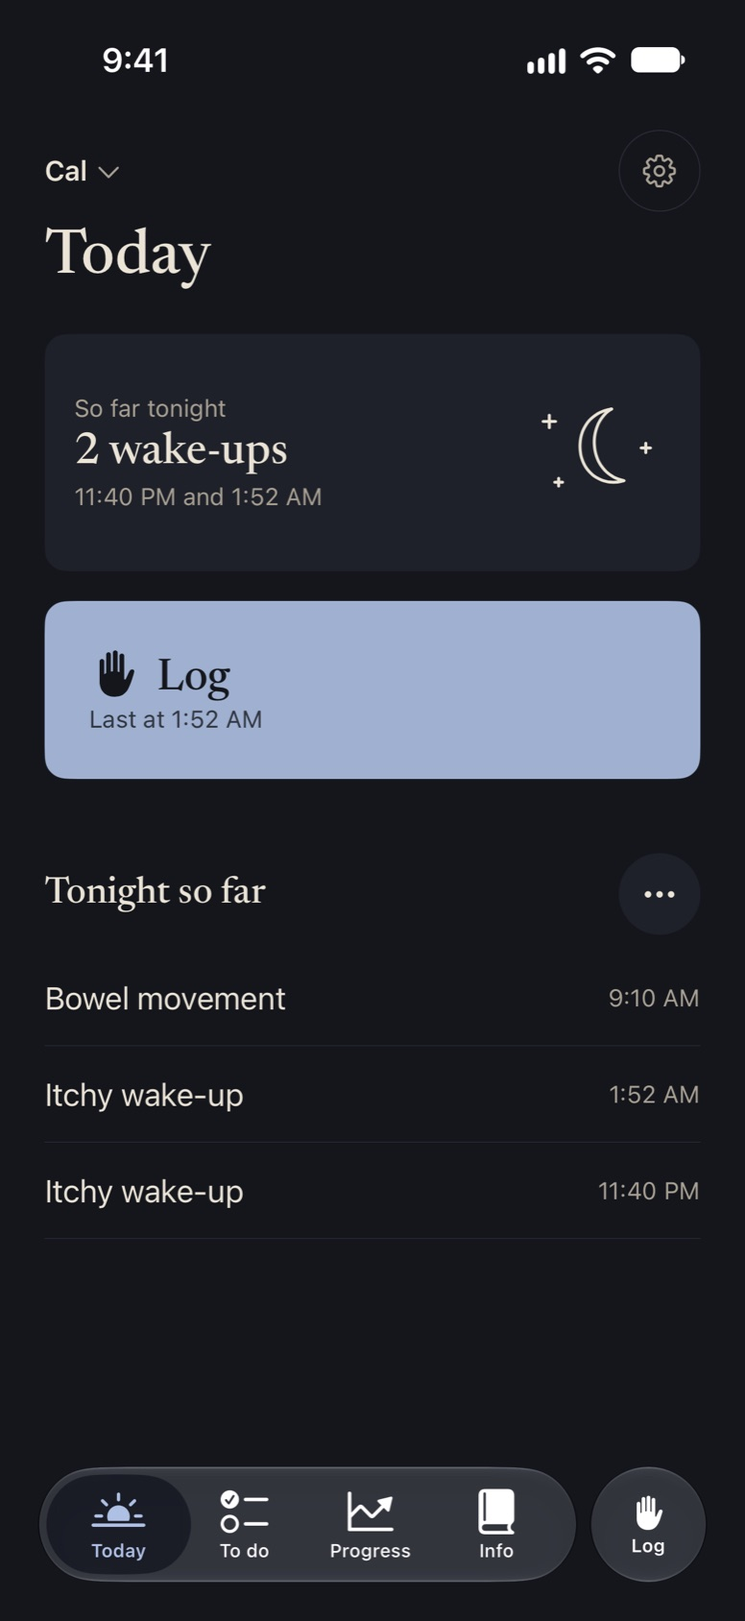
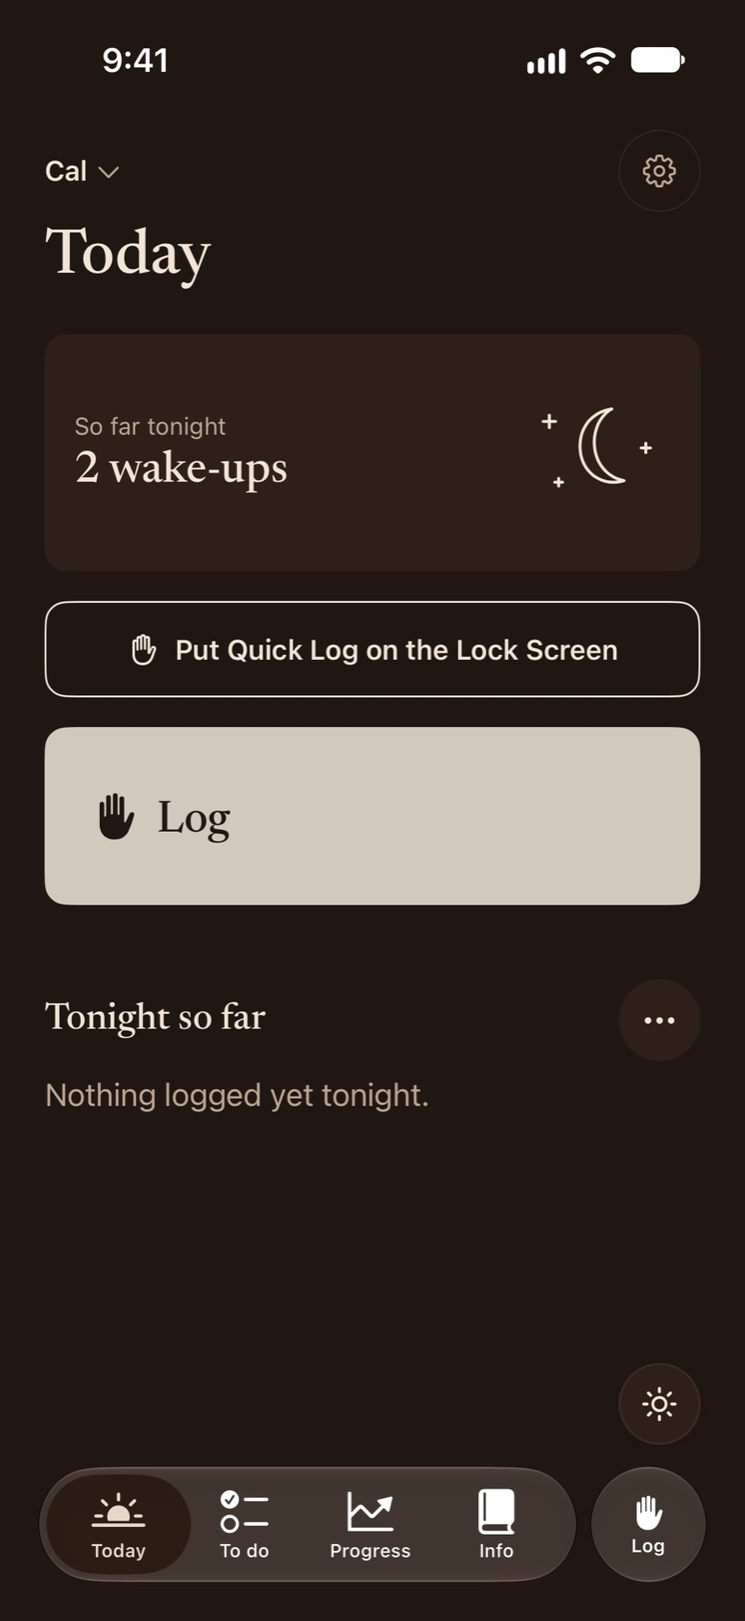
Site: greige, linen, and olive to match the app
Swaps the site's blues for the app's new palette (tokens.css, style.css,
the drawn phones' wallpaper and icons, the Night strip and card pictures),
new greige app screenshots, and keeps the page template in scripts/site.

diff --git a/web/index.html b/web/index.html
@@ -11,8 +11,8 @@
 <link rel="stylesheet" href="tokens.css">
 <!-- "A day with Cali Care": built by gen_day.py in the site's look (tokens.css), with real app screenshots in shots/. -->
 <style>
-body{margin:0;background:#F6F1E8}
-a{color:#34466A}a:hover{color:#1E1B18}
+body{margin:0;background:#F6EEE2}
+a{color:#665B52}a:hover{color:#261C14}
 .layout{margin:0 auto}
 details.faq summary{list-style:none;cursor:pointer}details.faq summary::-webkit-details-marker{display:none}details.faq[open] .faq-chev{transform:rotate(90deg)}
 
@@ -53,30 +53,30 @@ details.faq summary{list-style:none;cursor:pointer}details.faq summary::-webkit-
 <section id="during" style="box-sizing:border-box;padding:120px 120px;background:var(--surface);display:grid;grid-template-columns:repeat(2, minmax(0, 1fr));gap:80px;align-items:center"><div style="display:flex;flex-direction:column;gap:var(--s4)"><span class="t-label" style="color:var(--accent)">During the day</span><h2 style="margin:0;font-family:var(--serif);font-weight:500;font-size:44px;line-height:52px">Your provider’s plan, one step at a time.</h2><!-- VERIFY: plan-import --><p class="muted" style="margin:0;font-size:19px;line-height:30px;max-width:520px">Take a photo of your care plan, and Cali Care turns it into a short list for the morning, afternoon, and bedtime. It counts skin-care rounds for you, so you never have to wonder whether it was two or three.</p><!-- /VERIFY --><p class="t-caption muted" style="margin:0;font-size:15px;line-height:22px">Your provider’s exact words are always a tap away. Importing a plan requires signing in.</p><p class="muted" style="margin:0;font-size:19px;line-height:30px;max-width:520px">You can also log flares, foods, products, baths, and notes whenever you want. None of it is required.</p></div><div style="display:flex;justify-content:center"><div style="width:414px;height:868px;box-sizing:border-box;padding:12px;border-radius:58px;background:var(--mock-frame)">
 <div style="width:100%;height:100%;border-radius:46px;overflow:hidden"><img src="shots/todo-day.jpg" alt="Cali Care’s To do screen: the care plan as a list for the morning, with the next step highlighted" style="width:100%;height:100%;display:block;object-fit:cover;object-position:top"></div>
 </div></div></section>
-<section id="weeks" style="box-sizing:border-box;padding:120px 120px;display:grid;grid-template-columns:repeat(2, minmax(0, 1fr));gap:80px;align-items:center"><div style="display:flex;flex-direction:column;gap:var(--s4)"><span class="t-label" style="color:var(--accent)">Over the weeks</span><h2 style="margin:0;font-family:var(--serif);font-weight:500;font-size:44px;line-height:52px">See the whole month, not just the worst night.</h2><!-- VERIFY: night-strip --><p class="muted" style="margin:0;font-size:19px;line-height:30px;max-width:520px">The Night strip widget shows your last 7 nights right on your Home Screen. In the app, you can see how this week compares with last and how things have gone since your last visit.</p><!-- /VERIFY --><!-- FALLBACK (night-strip): In the app, you can see how this week compares with last and how things have gone since your last visit. --></div><div style="display:flex;justify-content:center"><!-- VERIFY: night-strip --><div role="img" aria-label="The Night strip widget: the last 7 nights as rows of dots, one dot per wake-up" style="box-sizing:border-box;width:338px;height:158px;padding:14px 16px;border-radius:22px;background:#14161C;font-family:var(--sans);display:flex;flex-direction:column;justify-content:space-between">
+<section id="weeks" style="box-sizing:border-box;padding:120px 120px;display:grid;grid-template-columns:repeat(2, minmax(0, 1fr));gap:80px;align-items:center"><div style="display:flex;flex-direction:column;gap:var(--s4)"><span class="t-label" style="color:var(--accent)">Over the weeks</span><h2 style="margin:0;font-family:var(--serif);font-weight:500;font-size:44px;line-height:52px">See the whole month, not just the worst night.</h2><!-- VERIFY: night-strip --><p class="muted" style="margin:0;font-size:19px;line-height:30px;max-width:520px">The Night strip widget shows your last 7 nights right on your Home Screen. In the app, you can see how this week compares with last and how things have gone since your last visit.</p><!-- /VERIFY --><!-- FALLBACK (night-strip): In the app, you can see how this week compares with last and how things have gone since your last visit. --></div><div style="display:flex;justify-content:center"><!-- VERIFY: night-strip --><div role="img" aria-label="The Night strip widget: the last 7 nights as rows of dots, one dot per wake-up" style="box-sizing:border-box;width:338px;height:158px;padding:14px 16px;border-radius:22px;background:#201712;font-family:var(--sans);display:flex;flex-direction:column;justify-content:space-between">
 <div style="display:flex;align-items:center;gap:10px;height:16px">
-<span style="width:30px;font-size:11px;color:#A8A093">Wed</span>
-<span style="position:relative;flex-grow:1;height:12px"><span style="position:absolute;left:0;right:0;top:50%;height:1px;background:#2C303A"></span><span style="position:absolute;left:calc(42% - 5px);top:50%;transform:translateY(-50%);width:10px;height:10px;border-radius:999px;background:#9FB0D0"></span></span>
+<span style="width:30px;font-size:11px;color:#BBA792">Wed</span>
+<span style="position:relative;flex-grow:1;height:12px"><span style="position:absolute;left:0;right:0;top:50%;height:1px;background:#3B2C22"></span><span style="position:absolute;left:calc(42% - 5px);top:50%;transform:translateY(-50%);width:10px;height:10px;border-radius:999px;background:#D3C8BC"></span></span>
 </div><div style="display:flex;align-items:center;gap:10px;height:16px">
-<span style="width:30px;font-size:11px;color:#A8A093">Thu</span>
-<span style="position:relative;flex-grow:1;height:12px"><span style="position:absolute;left:0;right:0;top:50%;height:1px;background:#2C303A"></span><span style="position:absolute;left:calc(30% - 5px);top:50%;transform:translateY(-50%);width:10px;height:10px;border-radius:999px;background:#9FB0D0"></span><span style="position:absolute;left:calc(55% - 5px);top:50%;transform:translateY(-50%);width:10px;height:10px;border-radius:999px;background:#9FB0D0"></span><span style="position:absolute;left:calc(78% - 5px);top:50%;transform:translateY(-50%);width:10px;height:10px;border-radius:999px;background:#9FB0D0"></span></span>
+<span style="width:30px;font-size:11px;color:#BBA792">Thu</span>
+<span style="position:relative;flex-grow:1;height:12px"><span style="position:absolute;left:0;right:0;top:50%;height:1px;background:#3B2C22"></span><span style="position:absolute;left:calc(30% - 5px);top:50%;transform:translateY(-50%);width:10px;height:10px;border-radius:999px;background:#D3C8BC"></span><span style="position:absolute;left:calc(55% - 5px);top:50%;transform:translateY(-50%);width:10px;height:10px;border-radius:999px;background:#D3C8BC"></span><span style="position:absolute;left:calc(78% - 5px);top:50%;transform:translateY(-50%);width:10px;height:10px;border-radius:999px;background:#D3C8BC"></span></span>
 </div><div style="display:flex;align-items:center;gap:10px;height:16px">
-<span style="width:30px;font-size:11px;color:#A8A093">Fri</span>
-<span style="position:relative;flex-grow:1;height:12px"><span style="position:absolute;left:0;right:0;top:50%;height:1px;background:#2C303A"></span></span>
+<span style="width:30px;font-size:11px;color:#BBA792">Fri</span>
+<span style="position:relative;flex-grow:1;height:12px"><span style="position:absolute;left:0;right:0;top:50%;height:1px;background:#3B2C22"></span></span>
 </div><div style="display:flex;align-items:center;gap:10px;height:16px">
-<span style="width:30px;font-size:11px;color:#A8A093">Sat</span>
-<span style="position:relative;flex-grow:1;height:12px"><span style="position:absolute;left:0;right:0;top:50%;height:1px;background:#2C303A"></span><span style="position:absolute;left:calc(48% - 5px);top:50%;transform:translateY(-50%);width:10px;height:10px;border-radius:999px;background:#9FB0D0"></span><span style="position:absolute;left:calc(70% - 5px);top:50%;transform:translateY(-50%);width:10px;height:10px;border-radius:999px;background:#9FB0D0"></span></span>
+<span style="width:30px;font-size:11px;color:#BBA792">Sat</span>
+<span style="position:relative;flex-grow:1;height:12px"><span style="position:absolute;left:0;right:0;top:50%;height:1px;background:#3B2C22"></span><span style="position:absolute;left:calc(48% - 5px);top:50%;transform:translateY(-50%);width:10px;height:10px;border-radius:999px;background:#D3C8BC"></span><span style="position:absolute;left:calc(70% - 5px);top:50%;transform:translateY(-50%);width:10px;height:10px;border-radius:999px;background:#D3C8BC"></span></span>
 </div><div style="display:flex;align-items:center;gap:10px;height:16px">
-<span style="width:30px;font-size:11px;color:#A8A093">Sun</span>
-<span style="position:relative;flex-grow:1;height:12px"><span style="position:absolute;left:0;right:0;top:50%;height:1px;background:#2C303A"></span><span style="position:absolute;left:calc(62% - 5px);top:50%;transform:translateY(-50%);width:10px;height:10px;border-radius:999px;background:#9FB0D0"></span></span>
+<span style="width:30px;font-size:11px;color:#BBA792">Sun</span>
+<span style="position:relative;flex-grow:1;height:12px"><span style="position:absolute;left:0;right:0;top:50%;height:1px;background:#3B2C22"></span><span style="position:absolute;left:calc(62% - 5px);top:50%;transform:translateY(-50%);width:10px;height:10px;border-radius:999px;background:#D3C8BC"></span></span>
 </div><div style="display:flex;align-items:center;gap:10px;height:16px">
-<span style="width:30px;font-size:11px;color:#A8A093">Mon</span>
-<span style="position:relative;flex-grow:1;height:12px"><span style="position:absolute;left:0;right:0;top:50%;height:1px;background:#2C303A"></span><span style="position:absolute;left:calc(36% - 5px);top:50%;transform:translateY(-50%);width:10px;height:10px;border-radius:999px;background:#9FB0D0"></span><span style="position:absolute;left:calc(58% - 5px);top:50%;transform:translateY(-50%);width:10px;height:10px;border-radius:999px;background:#9FB0D0"></span></span>
+<span style="width:30px;font-size:11px;color:#BBA792">Mon</span>
+<span style="position:relative;flex-grow:1;height:12px"><span style="position:absolute;left:0;right:0;top:50%;height:1px;background:#3B2C22"></span><span style="position:absolute;left:calc(36% - 5px);top:50%;transform:translateY(-50%);width:10px;height:10px;border-radius:999px;background:#D3C8BC"></span><span style="position:absolute;left:calc(58% - 5px);top:50%;transform:translateY(-50%);width:10px;height:10px;border-radius:999px;background:#D3C8BC"></span></span>
 </div><div style="display:flex;align-items:center;gap:10px;height:16px">
-<span style="width:30px;font-size:11px;color:#A8A093">Tue</span>
-<span style="position:relative;flex-grow:1;height:12px"><span style="position:absolute;left:0;right:0;top:50%;height:1px;background:#2C303A"></span><span style="position:absolute;left:calc(45% - 5px);top:50%;transform:translateY(-50%);width:10px;height:10px;border-radius:999px;background:#9FB0D0"></span><span style="position:absolute;left:calc(66% - 5px);top:50%;transform:translateY(-50%);width:10px;height:10px;border-radius:999px;background:#9FB0D0"></span></span>
+<span style="width:30px;font-size:11px;color:#BBA792">Tue</span>
+<span style="position:relative;flex-grow:1;height:12px"><span style="position:absolute;left:0;right:0;top:50%;height:1px;background:#3B2C22"></span><span style="position:absolute;left:calc(45% - 5px);top:50%;transform:translateY(-50%);width:10px;height:10px;border-radius:999px;background:#D3C8BC"></span><span style="position:absolute;left:calc(66% - 5px);top:50%;transform:translateY(-50%);width:10px;height:10px;border-radius:999px;background:#D3C8BC"></span></span>
 </div>
-<div style="display:flex;justify-content:space-between;padding-left:40px;font-size:10px;color:#A8A093"><span>7 PM</span><span>7 AM</span></div>
+<div style="display:flex;justify-content:space-between;padding-left:40px;font-size:10px;color:#BBA792"><span>7 PM</span><span>7 AM</span></div>
 </div><!-- /VERIFY --><!-- FALLBACK (night-strip): remove this picture. --></div></section>
 <section id="appointment" style="box-sizing:border-box;padding:120px 120px;background:var(--surface);display:grid;grid-template-columns:repeat(2, minmax(0, 1fr));gap:80px;align-items:center"><div style="display:flex;flex-direction:column;gap:var(--s4)"><span class="t-label" style="color:var(--accent)">At the appointment</span><h2 style="margin:0;font-family:var(--serif);font-weight:500;font-size:44px;line-height:52px">When the doctor asks how it’s been, you’ll know.</h2><!-- VERIFY: doctor-pdf --><p class="muted" style="margin:0;font-size:19px;line-height:30px;max-width:520px">Share a short PDF report with charts, a day-by-day view, and your notes. Your doctor doesn’t need the app.</p><!-- /VERIFY --></div><div style="display:flex;justify-content:center"><div style="width:414px;height:868px;box-sizing:border-box;padding:12px;border-radius:58px;background:var(--mock-frame)">
 <div style="width:100%;height:100%;border-radius:46px;overflow:hidden"><img src="shots/progress-week.jpg" alt="Cali Care’s Progress screen: this week’s nights and skin, with Share with provider" style="width:100%;height:100%;display:block;object-fit:cover;object-position:top"></div>
@@ -120,30 +120,30 @@ details.faq summary{list-style:none;cursor:pointer}details.faq summary::-webkit-
 <section id="during-m" style="box-sizing:border-box;padding:56px var(--gutter);background:var(--surface);display:flex;flex-direction:column;gap:var(--s5)"><div style="display:flex;flex-direction:column;gap:var(--s4)"><span class="t-label" style="color:var(--accent)">During the day</span><h2 style="margin:0;font-family:var(--serif);font-weight:500;font-size:32px;line-height:38px">Your provider’s plan, one step at a time.</h2><!-- VERIFY: plan-import --><p class="muted" style="margin:0;font-size:17px;line-height:26px;max-width:520px">Take a photo of your care plan, and Cali Care turns it into a short list for the morning, afternoon, and bedtime. It counts skin-care rounds for you, so you never have to wonder whether it was two or three.</p><!-- /VERIFY --><p class="t-caption muted" style="margin:0;font-size:15px;line-height:22px">Your provider’s exact words are always a tap away. Importing a plan requires signing in.</p><p class="muted" style="margin:0;font-size:17px;line-height:26px;max-width:520px">You can also log flares, foods, products, baths, and notes whenever you want. None of it is required.</p></div><div style="display:flex;justify-content:center"><div style="width:331px;height:694px;box-sizing:border-box;padding:9px;border-radius:46px;background:var(--mock-frame)">
 <div style="width:100%;height:100%;border-radius:36px;overflow:hidden"><img src="shots/todo-day.jpg" alt="Cali Care’s To do screen: the care plan as a list for the morning, with the next step highlighted" style="width:100%;height:100%;display:block;object-fit:cover;object-position:top"></div>
 </div></div></section>
-<section id="weeks-m" style="box-sizing:border-box;padding:56px var(--gutter);display:flex;flex-direction:column;gap:var(--s5)"><div style="display:flex;flex-direction:column;gap:var(--s4)"><span class="t-label" style="color:var(--accent)">Over the weeks</span><h2 style="margin:0;font-family:var(--serif);font-weight:500;font-size:32px;line-height:38px">See the whole month, not just the worst night.</h2><!-- VERIFY: night-strip --><p class="muted" style="margin:0;font-size:17px;line-height:26px;max-width:520px">The Night strip widget shows your last 7 nights right on your Home Screen. In the app, you can see how this week compares with last and how things have gone since your last visit.</p><!-- /VERIFY --><!-- FALLBACK (night-strip): In the app, you can see how this week compares with last and how things have gone since your last visit. --></div><div style="display:flex;justify-content:center"><!-- VERIFY: night-strip --><div role="img" aria-label="The Night strip widget: the last 7 nights as rows of dots, one dot per wake-up" style="box-sizing:border-box;width:338px;height:158px;padding:14px 16px;border-radius:22px;background:#14161C;font-family:var(--sans);display:flex;flex-direction:column;justify-content:space-between">
+<section id="weeks-m" style="box-sizing:border-box;padding:56px var(--gutter);display:flex;flex-direction:column;gap:var(--s5)"><div style="display:flex;flex-direction:column;gap:var(--s4)"><span class="t-label" style="color:var(--accent)">Over the weeks</span><h2 style="margin:0;font-family:var(--serif);font-weight:500;font-size:32px;line-height:38px">See the whole month, not just the worst night.</h2><!-- VERIFY: night-strip --><p class="muted" style="margin:0;font-size:17px;line-height:26px;max-width:520px">The Night strip widget shows your last 7 nights right on your Home Screen. In the app, you can see how this week compares with last and how things have gone since your last visit.</p><!-- /VERIFY --><!-- FALLBACK (night-strip): In the app, you can see how this week compares with last and how things have gone since your last visit. --></div><div style="display:flex;justify-content:center"><!-- VERIFY: night-strip --><div role="img" aria-label="The Night strip widget: the last 7 nights as rows of dots, one dot per wake-up" style="box-sizing:border-box;width:338px;height:158px;padding:14px 16px;border-radius:22px;background:#201712;font-family:var(--sans);display:flex;flex-direction:column;justify-content:space-between">
 <div style="display:flex;align-items:center;gap:10px;height:16px">
-<span style="width:30px;font-size:11px;color:#A8A093">Wed</span>
-<span style="position:relative;flex-grow:1;height:12px"><span style="position:absolute;left:0;right:0;top:50%;height:1px;background:#2C303A"></span><span style="position:absolute;left:calc(42% - 5px);top:50%;transform:translateY(-50%);width:10px;height:10px;border-radius:999px;background:#9FB0D0"></span></span>
+<span style="width:30px;font-size:11px;color:#BBA792">Wed</span>
+<span style="position:relative;flex-grow:1;height:12px"><span style="position:absolute;left:0;right:0;top:50%;height:1px;background:#3B2C22"></span><span style="position:absolute;left:calc(42% - 5px);top:50%;transform:translateY(-50%);width:10px;height:10px;border-radius:999px;background:#D3C8BC"></span></span>
 </div><div style="display:flex;align-items:center;gap:10px;height:16px">
-<span style="width:30px;font-size:11px;color:#A8A093">Thu</span>
-<span style="position:relative;flex-grow:1;height:12px"><span style="position:absolute;left:0;right:0;top:50%;height:1px;background:#2C303A"></span><span style="position:absolute;left:calc(30% - 5px);top:50%;transform:translateY(-50%);width:10px;height:10px;border-radius:999px;background:#9FB0D0"></span><span style="position:absolute;left:calc(55% - 5px);top:50%;transform:translateY(-50%);width:10px;height:10px;border-radius:999px;background:#9FB0D0"></span><span style="position:absolute;left:calc(78% - 5px);top:50%;transform:translateY(-50%);width:10px;height:10px;border-radius:999px;background:#9FB0D0"></span></span>
+<span style="width:30px;font-size:11px;color:#BBA792">Thu</span>
+<span style="position:relative;flex-grow:1;height:12px"><span style="position:absolute;left:0;right:0;top:50%;height:1px;background:#3B2C22"></span><span style="position:absolute;left:calc(30% - 5px);top:50%;transform:translateY(-50%);width:10px;height:10px;border-radius:999px;background:#D3C8BC"></span><span style="position:absolute;left:calc(55% - 5px);top:50%;transform:translateY(-50%);width:10px;height:10px;border-radius:999px;background:#D3C8BC"></span><span style="position:absolute;left:calc(78% - 5px);top:50%;transform:translateY(-50%);width:10px;height:10px;border-radius:999px;background:#D3C8BC"></span></span>
 </div><div style="display:flex;align-items:center;gap:10px;height:16px">
-<span style="width:30px;font-size:11px;color:#A8A093">Fri</span>
-<span style="position:relative;flex-grow:1;height:12px"><span style="position:absolute;left:0;right:0;top:50%;height:1px;background:#2C303A"></span></span>
+<span style="width:30px;font-size:11px;color:#BBA792">Fri</span>
+<span style="position:relative;flex-grow:1;height:12px"><span style="position:absolute;left:0;right:0;top:50%;height:1px;background:#3B2C22"></span></span>
 </div><div style="display:flex;align-items:center;gap:10px;height:16px">
-<span style="width:30px;font-size:11px;color:#A8A093">Sat</span>
-<span style="position:relative;flex-grow:1;height:12px"><span style="position:absolute;left:0;right:0;top:50%;height:1px;background:#2C303A"></span><span style="position:absolute;left:calc(48% - 5px);top:50%;transform:translateY(-50%);width:10px;height:10px;border-radius:999px;background:#9FB0D0"></span><span style="position:absolute;left:calc(70% - 5px);top:50%;transform:translateY(-50%);width:10px;height:10px;border-radius:999px;background:#9FB0D0"></span></span>
+<span style="width:30px;font-size:11px;color:#BBA792">Sat</span>
+<span style="position:relative;flex-grow:1;height:12px"><span style="position:absolute;left:0;right:0;top:50%;height:1px;background:#3B2C22"></span><span style="position:absolute;left:calc(48% - 5px);top:50%;transform:translateY(-50%);width:10px;height:10px;border-radius:999px;background:#D3C8BC"></span><span style="position:absolute;left:calc(70% - 5px);top:50%;transform:translateY(-50%);width:10px;height:10px;border-radius:999px;background:#D3C8BC"></span></span>
 </div><div style="display:flex;align-items:center;gap:10px;height:16px">
-<span style="width:30px;font-size:11px;color:#A8A093">Sun</span>
-<span style="position:relative;flex-grow:1;height:12px"><span style="position:absolute;left:0;right:0;top:50%;height:1px;background:#2C303A"></span><span style="position:absolute;left:calc(62% - 5px);top:50%;transform:translateY(-50%);width:10px;height:10px;border-radius:999px;background:#9FB0D0"></span></span>
+<span style="width:30px;font-size:11px;color:#BBA792">Sun</span>
+<span style="position:relative;flex-grow:1;height:12px"><span style="position:absolute;left:0;right:0;top:50%;height:1px;background:#3B2C22"></span><span style="position:absolute;left:calc(62% - 5px);top:50%;transform:translateY(-50%);width:10px;height:10px;border-radius:999px;background:#D3C8BC"></span></span>
 </div><div style="display:flex;align-items:center;gap:10px;height:16px">
-<span style="width:30px;font-size:11px;color:#A8A093">Mon</span>
-<span style="position:relative;flex-grow:1;height:12px"><span style="position:absolute;left:0;right:0;top:50%;height:1px;background:#2C303A"></span><span style="position:absolute;left:calc(36% - 5px);top:50%;transform:translateY(-50%);width:10px;height:10px;border-radius:999px;background:#9FB0D0"></span><span style="position:absolute;left:calc(58% - 5px);top:50%;transform:translateY(-50%);width:10px;height:10px;border-radius:999px;background:#9FB0D0"></span></span>
+<span style="width:30px;font-size:11px;color:#BBA792">Mon</span>
+<span style="position:relative;flex-grow:1;height:12px"><span style="position:absolute;left:0;right:0;top:50%;height:1px;background:#3B2C22"></span><span style="position:absolute;left:calc(36% - 5px);top:50%;transform:translateY(-50%);width:10px;height:10px;border-radius:999px;background:#D3C8BC"></span><span style="position:absolute;left:calc(58% - 5px);top:50%;transform:translateY(-50%);width:10px;height:10px;border-radius:999px;background:#D3C8BC"></span></span>
 </div><div style="display:flex;align-items:center;gap:10px;height:16px">
-<span style="width:30px;font-size:11px;color:#A8A093">Tue</span>
-<span style="position:relative;flex-grow:1;height:12px"><span style="position:absolute;left:0;right:0;top:50%;height:1px;background:#2C303A"></span><span style="position:absolute;left:calc(45% - 5px);top:50%;transform:translateY(-50%);width:10px;height:10px;border-radius:999px;background:#9FB0D0"></span><span style="position:absolute;left:calc(66% - 5px);top:50%;transform:translateY(-50%);width:10px;height:10px;border-radius:999px;background:#9FB0D0"></span></span>
+<span style="width:30px;font-size:11px;color:#BBA792">Tue</span>
+<span style="position:relative;flex-grow:1;height:12px"><span style="position:absolute;left:0;right:0;top:50%;height:1px;background:#3B2C22"></span><span style="position:absolute;left:calc(45% - 5px);top:50%;transform:translateY(-50%);width:10px;height:10px;border-radius:999px;background:#D3C8BC"></span><span style="position:absolute;left:calc(66% - 5px);top:50%;transform:translateY(-50%);width:10px;height:10px;border-radius:999px;background:#D3C8BC"></span></span>
 </div>
-<div style="display:flex;justify-content:space-between;padding-left:40px;font-size:10px;color:#A8A093"><span>7 PM</span><span>7 AM</span></div>
+<div style="display:flex;justify-content:space-between;padding-left:40px;font-size:10px;color:#BBA792"><span>7 PM</span><span>7 AM</span></div>
 </div><!-- /VERIFY --><!-- FALLBACK (night-strip): remove this picture. --></div></section>
 <section id="appointment-m" style="box-sizing:border-box;padding:56px var(--gutter);background:var(--surface);display:flex;flex-direction:column;gap:var(--s5)"><div style="display:flex;flex-direction:column;gap:var(--s4)"><span class="t-label" style="color:var(--accent)">At the appointment</span><h2 style="margin:0;font-family:var(--serif);font-weight:500;font-size:32px;line-height:38px">When the doctor asks how it’s been, you’ll know.</h2><!-- VERIFY: doctor-pdf --><p class="muted" style="margin:0;font-size:17px;line-height:26px;max-width:520px">Share a short PDF report with charts, a day-by-day view, and your notes. Your doctor doesn’t need the app.</p><!-- /VERIFY --></div><div style="display:flex;justify-content:center"><div style="width:331px;height:694px;box-sizing:border-box;padding:9px;border-radius:46px;background:var(--mock-frame)">
 <div style="width:100%;height:100%;border-radius:36px;overflow:hidden"><img src="shots/progress-week.jpg" alt="Cali Care’s Progress screen: this week’s nights and skin, with Share with provider" style="width:100%;height:100%;display:block;object-fit:cover;object-position:top"></div>

diff --git a/web/tokens.css b/web/tokens.css
@@ -1,46 +1,46 @@
 /* Cali Care tokens: the only place colors, type, spacing, radii and motion are defined. */
 
 .day, :root {
-  --bg: #F6F1E8;
-  --surface: #ECE4D6;
-  --ink: #1E1B18;
-  --muted: #5C554D;
-  --line: #D8CFC0;
-  --accent: #34466A;
-  --on-accent: #F6F1E8;
-  --bar-bg: rgba(246, 241, 232, 0.96);
+  --bg: #F6EEE2;
+  --surface: #ECDFCC;
+  --ink: #261C14;
+  --muted: #67584A;
+  --line: #DECDB6;
+  --accent: #665B52;
+  --on-accent: #F6EEE2;
+  --bar-bg: rgba(246, 238, 226, 0.96);
   --scrim: rgba(30, 27, 24, 0.32);
-  --calm: #E3E7EE;
-  --little-itchy: #C2CBDB;
-  --flaring: #56698F;
-  --very-rough: #2E3E5E;
+  --calm: #ECECD8;
+  --little-itchy: #CFD0A6;
+  --flaring: #8F9156;
+  --very-rough: #55582C;
 }
 .night {
-  --bg: #14161C;
-  --surface: #1E2129;
-  --ink: #EAE3D6;
-  --muted: #A8A093;
-  --line: #2C303A;
-  --accent: #9FB0D0;
-  --on-accent: #14161C;
-  --bar-bg: rgba(30, 33, 41, 0.96);
+  --bg: #201712;
+  --surface: #2C2019;
+  --ink: #F2E5D6;
+  --muted: #BBA792;
+  --line: #3B2C22;
+  --accent: #D3C8BC;
+  --on-accent: #201712;
+  --bar-bg: rgba(44, 32, 25, 0.96);
   --scrim: rgba(0, 0, 0, 0.5);
   /* Night ramp: on a dark ground, rougher is brighter, so it still stands out most. */
-  --calm: #2A3142;
-  --little-itchy: #3C4760;
-  --flaring: #8497BD;
-  --very-rough: #B7C5E0;
+  --calm: #2F2F1E;
+  --little-itchy: #46462C;
+  --flaring: #8F9156;
+  --very-rough: #D2D39C;
 }
 
 /* One scale for skin answers and nights. Rule in both themes: rougher always
    stands out more. Day: deeper is rougher. Night (.night above): brighter is rougher. */
 :root {
   /* Only inside the drawn phones in onboarding. */
-  --mock-bezel: #1E1B18;
+  --mock-bezel: #261C14;
   --mock-home: #CFC6B8;
   --mock-app: #B9B0A1;
-  --mock-lock: #2A2F3A;
-  --mock-lock-text: #EAE3D6;
+  --mock-lock: #3A3029;
+  --mock-lock-text: #F2E5D6;
   --mock-r-device: 40px;
   --mock-r-screen: 31px;
   --r-none: 0;
@@ -52,7 +52,7 @@
   --r-sys: 8px;       /* system compact controls: time picker */
   --r-sheet: 38px;    /* system sheet top corners */
   --knob: #FFFFFF;    /* system switch knob */
-  --ring: rgba(52, 70, 106, 0.55); /* soft indigo guide ring */
+  --ring: rgba(102, 91, 82, 0.55); /* soft greige guide ring */
   --r-pill: 999px;
   --r-mark: 3px;
   --hairline: 0.5px;
@@ -117,7 +117,7 @@ button, a, input { font: inherit; color: inherit; }
 .ledger-row.xl { min-height: 72px; }
 .ledger-row .swatch { width: 20px; height: 20px; flex-shrink: 0; }
 
-/* System switch, tinted indigo (never the default green). 51 x 31 track in a 44pt target. */
+/* System switch, tinted greige (never the default green). 51 x 31 track in a 44pt target. */
 .switch { width: 51px; height: var(--tap); border: 0; background: none; padding: 0; display: flex; align-items: center; flex-shrink: 0; }
 .switch .track { width: 51px; height: 31px; border-radius: var(--r-pill); background: var(--line); padding: 2px; box-sizing: border-box; display: flex; justify-content: flex-start; }
 .switch.on .track { background: var(--accent); justify-content: flex-end; }
@@ -139,7 +139,7 @@ button, a, input { font: inherit; color: inherit; }
    Looks the current iOS (27.0) supports: full color, tinted, clear.
    Lock Screen widgets and controls are always monochrome. */
 .w-full   { --w-bg: var(--bg); --w-fg: var(--ink); --w-muted: var(--muted); --w-btn-bg: var(--accent); --w-btn-fg: var(--on-accent); --w-soft: var(--surface); }
-.w-tinted { --w-bg: rgba(38, 54, 86, 0.55); --w-fg: #F1F5FC; --w-muted: #D9E2F1; --w-btn-bg: rgba(241, 245, 252, 0.18); --w-btn-fg: #FFFFFF; --w-soft: rgba(241, 245, 252, 0.12); }
+.w-tinted { --w-bg: rgba(102, 91, 82, 0.55); --w-fg: #F1F5FC; --w-muted: #D9E2F1; --w-btn-bg: rgba(241, 245, 252, 0.18); --w-btn-fg: #FFFFFF; --w-soft: rgba(241, 245, 252, 0.12); }
 .w-clear  { --w-bg: rgba(20, 22, 28, 0.30); --w-fg: #FFFFFF; --w-muted: #E6E8EC; --w-btn-bg: rgba(255, 255, 255, 0.16); --w-btn-fg: #FFFFFF; --w-soft: rgba(255, 255, 255, 0.10); }
 .w-mono   { --w-bg: rgba(20, 22, 28, 0.30); --w-fg: #FFFFFF; --w-muted: #E6E8EC; --w-btn-bg: rgba(255, 255, 255, 0.16); --w-btn-fg: #FFFFFF; --w-soft: rgba(255, 255, 255, 0.10); }
 /* The one widget-only type exception: "Itchy" in the small Lock Screen circle. */
@@ -151,17 +151,17 @@ button, a, input { font: inherit; color: inherit; }
   --mock-island: #000000;
   --mock-r-phone: 67px;
   --mock-r-display: 55px;
-  --mock-wall: #5E6878;
-  --mock-wall-shape: #6E7889;
-  --mock-wall-shape-2: #535D6C;
-  --mock-wall-night: #232833;
-  --mock-wall-night-shape: #2C3240;
+  --mock-wall: #8A7F73;
+  --mock-wall-shape: #998E82;
+  --mock-wall-shape-2: #7A6F64;
+  --mock-wall-night: #2A221C;
+  --mock-wall-night-shape: #352B24;
   --mock-on-wall: #FFFFFF;
   --mock-icon-1: #E6E0D5;
-  --mock-icon-2: #CBD3DD;
+  --mock-icon-2: #DDD3C6;
   --mock-icon-3: #DDD6C9;
-  --mock-icon-4: #B9C3CF;
-  --mock-icon-glyph: #4A5260;
+  --mock-icon-4: #CFC3B4;
+  --mock-icon-glyph: #5E5248;
   --mock-glass: rgba(255, 255, 255, 0.18);
   --mock-glass-strong: rgba(255, 255, 255, 0.30);
   --mock-dim: rgba(10, 12, 16, 0.45);
@@ -176,7 +176,7 @@ button, a, input { font: inherit; color: inherit; }
   --mock-badge: #D9D9DE;
   --mock-key-dark: #4A4A4E;
   --mock-keyboard-dark: #2B2B2E;
-  --mock-app-icon: #F6F1E8;
+  --mock-app-icon: #F6EEE2;
   --mock-r-icon: 15px;
   --mock-r-dock: 36px;
   --mock-r-widget: 22px;

diff --git a/scripts/site/index.template.html b/scripts/site/index.template.html
@@ -1,0 +1,40 @@
+<!doctype html>
+<html lang="en">
+<head>
+<meta charset="utf-8">
+<meta name="viewport" content="width=device-width, initial-scale=1">
+<title>Cali Care: keeping track of your child’s eczema shouldn’t be hard</title>
+<meta name="description" content="Cali Care makes it easy to log what matters, see what’s been happening, and share it with your doctor and anyone who helps care for your child. Free on iPhone during the beta.">
+<link rel="preconnect" href="https://fonts.googleapis.com">
+<link rel="preconnect" href="https://fonts.gstatic.com" crossorigin>
+<link href="https://fonts.googleapis.com/css2?family=Newsreader:opsz,wght@6..72,400;6..72,500&amp;display=swap" rel="stylesheet">
+<link rel="stylesheet" href="tokens.css">
+<!-- Built from the "Cali Care website" design canvas (Home · desktop and Home · phone),
+     with real app screenshots in shots/. -->
+<style>
+body{margin:0;background:#F6EEE2}
+a{color:#665B52}a:hover{color:#261C14}
+.layout{margin:0 auto}
+details.faq summary{list-style:none;cursor:pointer}details.faq summary::-webkit-details-marker{display:none}details.faq[open] .faq-chev{transform:rotate(90deg)}
+
+#desk{width:1440px}
+#mob{width:390px;display:none}
+@media (max-width:759px){#desk{display:none}#mob{display:block}}
+</style>
+</head>
+<body>
+<div class="layout" id="desk">{DESK}</div>
+<div class="layout" id="mob">{MOB}</div>
+<script>
+// Each layout is drawn at a fixed width; scale it to the window.
+function fit(){
+  var w=document.documentElement.clientWidth, phone=w<760;
+  document.getElementById('desk').style.zoom=phone?1:Math.min(1,w/1440);
+  document.getElementById('mob').style.zoom=phone?w/390:1;
+}
+fit();addEventListener('resize',fit);
+// The drawn phones and widgets are pictures: keep their buttons out of reach.
+document.querySelectorAll('.sc-host .sc-host').forEach(function(el){el.setAttribute('inert','');el.setAttribute('aria-hidden','true');});
+</script>
+</body>
+</html>

diff --git a/web/style.css b/web/style.css
@@ -1,21 +1,21 @@
-/* Cali Care web pages: paper, ink, and indigo (DESIGN.md). */
+/* Cali Care web pages: linen, ink, and greige (DESIGN.md). */
 :root {
-  --paper: #F6F1E8;
-  --oat: #ECE4D6;
-  --ink: #1E1B18;
-  --graphite: #5C554D;
-  --hairline: #D8CFC0;
-  --indigo: #34466A;
+  --paper: #F6EEE2;
+  --oat: #ECDFCC;
+  --ink: #261C14;
+  --graphite: #67584A;
+  --hairline: #DECDB6;
+  --indigo: #665B52;
   color-scheme: light dark;
 }
 @media (prefers-color-scheme: dark) {
   :root {
-    --paper: #14161C;
-    --oat: #1E2129;
-    --ink: #EAE3D6;
-    --graphite: #A8A093;
-    --hairline: #2C303A;
-    --indigo: #9FB0D0;
+    --paper: #201712;
+    --oat: #2C2019;
+    --ink: #F2E5D6;
+    --graphite: #BBA792;
+    --hairline: #3B2C22;
+    --indigo: #D3C8BC;
   }
 }
 

diff --git a/scripts/site/gen_day.py b/scripts/site/gen_day.py
@@ -33,12 +33,12 @@ def verify(name, html, fallback=None):
 
 def tonight_card(scale=1.0):
     s = scale
-    return f'''<div role="img" aria-label="The Tonight card on the Lock Screen: 2 wake-ups, last at 1:52 AM, with a Log button" style="box-sizing:border-box;width:{int(358*s)}px;padding:{int(16*s)}px;border-radius:{int(24*s)}px;background:#1E2129;border:1px solid #2C303A;color:#EAE3D6;display:flex;align-items:center;gap:{int(16*s)}px;font-family:var(--sans)">
+    return f'''<div role="img" aria-label="The Tonight card on the Lock Screen: 2 wake-ups, last at 1:52 AM, with a Log button" style="box-sizing:border-box;width:{int(358*s)}px;padding:{int(16*s)}px;border-radius:{int(24*s)}px;background:#2C2019;border:1px solid #3B2C22;color:#F2E5D6;display:flex;align-items:center;gap:{int(16*s)}px;font-family:var(--sans)">
 <div style="flex-grow:1;display:flex;flex-direction:column;gap:{int(4*s)}px">
 <span style="font-family:var(--serif);font-weight:500;font-size:{int(24*s)}px;line-height:1.2">Tonight</span>
-<span style="font-size:{int(16*s)}px;line-height:1.35;color:#A8A093">2 wake-ups · last at 1:52 AM</span>
+<span style="font-size:{int(16*s)}px;line-height:1.35;color:#BBA792">2 wake-ups · last at 1:52 AM</span>
 </div>
-<span style="display:flex;align-items:center;gap:{int(8*s)}px;height:{int(56*s)}px;padding:0 {int(22*s)}px;border-radius:999px;background:#9FB0D0;color:#14161C;font-weight:600;font-size:{int(19*s)}px"><svg width="{int(20*s)}" height="{int(20*s)}" viewBox="0 0 24 24" fill="currentColor" aria-hidden="true"><path d="M18 11V6a2 2 0 0 0-4 0v5h-.5V4a2 2 0 0 0-4 0v7H9V6a2 2 0 0 0-4 0v8a8 8 0 0 0 16 0v-2a2 2 0 0 0-4 0v-1z"/></svg>Log</span>
+<span style="display:flex;align-items:center;gap:{int(8*s)}px;height:{int(56*s)}px;padding:0 {int(22*s)}px;border-radius:999px;background:#D3C8BC;color:#201712;font-weight:600;font-size:{int(19*s)}px"><svg width="{int(20*s)}" height="{int(20*s)}" viewBox="0 0 24 24" fill="currentColor" aria-hidden="true"><path d="M18 11V6a2 2 0 0 0-4 0v5h-.5V4a2 2 0 0 0-4 0v7H9V6a2 2 0 0 0-4 0v8a8 8 0 0 0 16 0v-2a2 2 0 0 0-4 0v-1z"/></svg>Log</span>
 </div>'''
 
 
@@ -47,14 +47,14 @@ def lock_phone(scale=1.0):
     s = scale
     w, h = int(414 * s), int(868 * s)
     return f'''<div aria-hidden="false" style="width:{w}px;height:{h}px;box-sizing:border-box;padding:{int(12*s)}px;border-radius:{int(58*s)}px;background:var(--mock-frame)">
-<div style="position:relative;width:100%;height:100%;border-radius:{int(46*s)}px;overflow:hidden;background:linear-gradient(180deg,#232833 0%,#2C3240 55%,#1B1F28 100%);color:#EAE3D6;font-family:var(--sans)">
+<div style="position:relative;width:100%;height:100%;border-radius:{int(46*s)}px;overflow:hidden;background:linear-gradient(180deg,#2A221C 0%,#352B24 55%,#1B1F28 100%);color:#F2E5D6;font-family:var(--sans)">
 <div style="position:absolute;top:{int(14*s)}px;left:50%;transform:translateX(-50%);width:{int(124*s)}px;height:{int(36*s)}px;border-radius:999px;background:#000"></div>
 <div style="position:absolute;top:{int(84*s)}px;left:0;right:0;text-align:center">
 <div style="font-size:{int(20*s)}px;font-weight:500">Tuesday, October 6</div>
 <div style="font-size:{int(92*s)}px;line-height:1.05;font-weight:600;letter-spacing:-2px">1:58</div>
 </div>
 <div style="position:absolute;left:{int(16*s)}px;right:{int(16*s)}px;bottom:{int(120*s)}px;display:flex;justify-content:center">{tonight_card(s)}</div>
-<div style="position:absolute;bottom:{int(10*s)}px;left:50%;transform:translateX(-50%);width:{int(134*s)}px;height:{int(5*s)}px;border-radius:999px;background:#EAE3D6;opacity:.8"></div>
+<div style="position:absolute;bottom:{int(10*s)}px;left:50%;transform:translateX(-50%);width:{int(134*s)}px;height:{int(5*s)}px;border-radius:999px;background:#F2E5D6;opacity:.8"></div>
 </div>
 </div>'''
 
@@ -70,15 +70,15 @@ def night_strip(scale=1.0):
     rows = ''
     for day, dots in NIGHTS:
         dots_html = ''.join(
-            f'<span style="position:absolute;left:calc({p*100:.0f}% - {int(5*s)}px);top:50%;transform:translateY(-50%);width:{int(10*s)}px;height:{int(10*s)}px;border-radius:999px;background:#9FB0D0"></span>'
+            f'<span style="position:absolute;left:calc({p*100:.0f}% - {int(5*s)}px);top:50%;transform:translateY(-50%);width:{int(10*s)}px;height:{int(10*s)}px;border-radius:999px;background:#D3C8BC"></span>'
             for p in dots)
         rows += f'''<div style="display:flex;align-items:center;gap:{int(10*s)}px;height:{int(16*s)}px">
-<span style="width:{int(30*s)}px;font-size:{int(11*s)}px;color:#A8A093">{day}</span>
-<span style="position:relative;flex-grow:1;height:{int(12*s)}px"><span style="position:absolute;left:0;right:0;top:50%;height:1px;background:#2C303A"></span>{dots_html}</span>
+<span style="width:{int(30*s)}px;font-size:{int(11*s)}px;color:#BBA792">{day}</span>
+<span style="position:relative;flex-grow:1;height:{int(12*s)}px"><span style="position:absolute;left:0;right:0;top:50%;height:1px;background:#3B2C22"></span>{dots_html}</span>
 </div>'''
-    return f'''<div role="img" aria-label="The Night strip widget: the last 7 nights as rows of dots, one dot per wake-up" style="box-sizing:border-box;width:{int(338*s)}px;height:{int(158*s)}px;padding:{int(14*s)}px {int(16*s)}px;border-radius:{int(22*s)}px;background:#14161C;font-family:var(--sans);display:flex;flex-direction:column;justify-content:space-between">
+    return f'''<div role="img" aria-label="The Night strip widget: the last 7 nights as rows of dots, one dot per wake-up" style="box-sizing:border-box;width:{int(338*s)}px;height:{int(158*s)}px;padding:{int(14*s)}px {int(16*s)}px;border-radius:{int(22*s)}px;background:#201712;font-family:var(--sans);display:flex;flex-direction:column;justify-content:space-between">
 {rows}
-<div style="display:flex;justify-content:space-between;padding-left:{int(40*s)}px;font-size:{int(10*s)}px;color:#A8A093"><span>7 PM</span><span>7 AM</span></div>
+<div style="display:flex;justify-content:space-between;padding-left:{int(40*s)}px;font-size:{int(10*s)}px;color:#BBA792"><span>7 PM</span><span>7 AM</span></div>
 </div>'''
 
 
